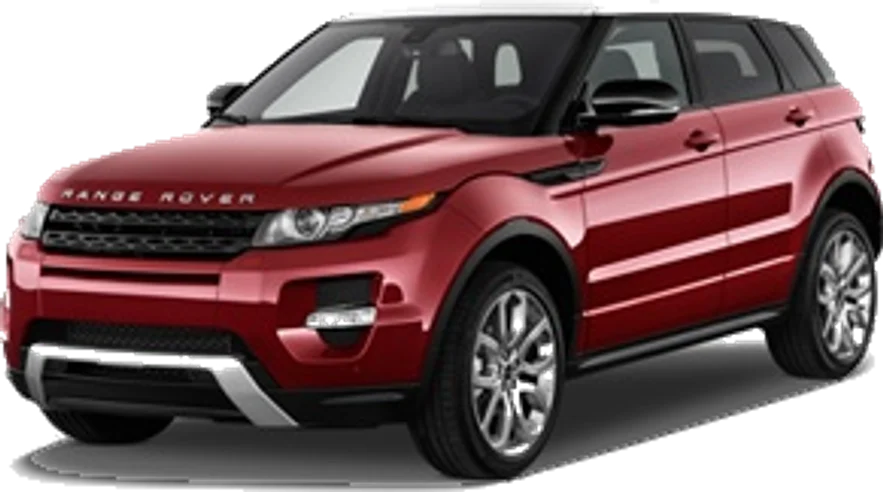
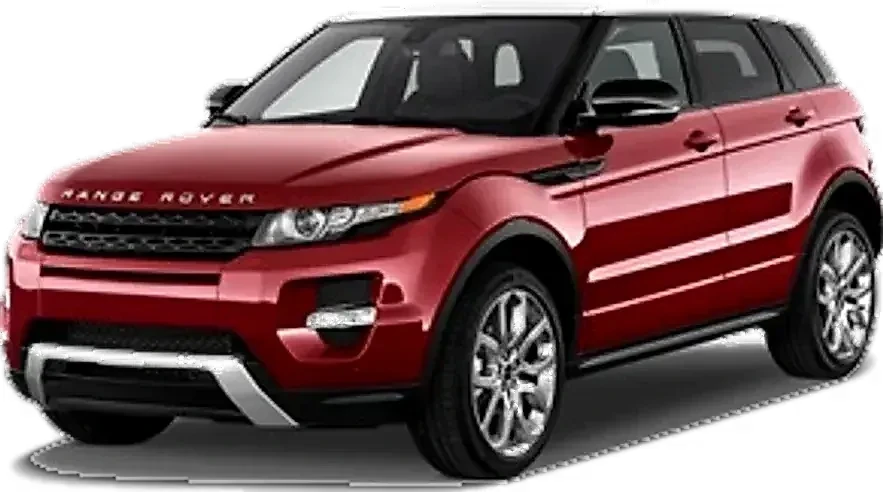
Range Rover Evoque plus net : image accentuée, contour lissé, affichée à 85 %
La photo d'origine ne fait que 314 px de large ; elle est moins agrandie
et ses bords n'ont plus d'effet d'escalier.

diff --git a/components/motion/MotionDrive.tsx b/components/motion/MotionDrive.tsx
@@ -5,12 +5,14 @@ import { SUV_IMAGE } from './KitIcons';
 /**
  * Voitures qui défilent, dans cet ordre. Photos détourées (fond transparent, 883 px de large)
  * dans /public/animations : ajoutez ou retirez une ligne pour changer la sélection.
+ * scale (facultatif) : affiche la voiture plus petite, utile si la photo d'origine est peu détaillée.
  */
-const cars = [
+const cars: { name: string; src: string; scale?: number }[] = [
   { name: 'Mitsubishi Outlander', src: SUV_IMAGE },
   { name: 'Hyundai Tucson', src: '/animations/cars/tucson.webp' },
   { name: 'Hyundai Elantra', src: '/animations/cars/elantra.webp' },
-  { name: 'Range Rover Evoque', src: '/animations/cars/evoque.webp' },
+  // Photo d'origine petite (314 px) : affichée un peu plus petite pour rester nette
+  { name: 'Range Rover Evoque', src: '/animations/cars/evoque.webp', scale: 0.85 },
 ];
 
 const pad = (n: number) => String(n).padStart(2, '0');
@@ -53,7 +55,12 @@ export function MotionDrive({ t }: { t: Dictionary['motion']['drive'] }) {
             <b data-car-num="">01</b>/ {pad(cars.length)} · <span data-car-name="">{cars[0].name}</span>
           </p>
           {cars.map((car) => (
-            <div key={car.src} className="am-drive__car" data-name={car.name}>
+            <div
+              key={car.src}
+              className="am-drive__car"
+              data-name={car.name}
+              style={car.scale ? ({ '--s': car.scale } as React.CSSProperties) : undefined}
+            >
               {/* eslint-disable-next-line @next/next/no-img-element -- photos détourées déjà optimisées (≈ 55 Ko) */}
               <img
                 className="am-drive__img"

diff --git a/app/am-motion.css b/app/am-motion.css
@@ -549,3 +549,5 @@
 html:not(.am-ready) .am-drive--multi div.am-drive__car:first-of-type { --x: 0; --b: 0; }
 @media (prefers-reduced-motion: reduce) { .am-drive--multi { height: auto; } .am-drive--multi .am-drive__car { --x: 0 !important; --b: 0 !important; } }
 @media (max-width: 600px) { .am-drive__counter { top: 28px; } }
+/* Taille propre à chaque voiture (--s, 1 par défaut) : sert aux photos de petite taille */
+.am-drive--multi .am-drive__car { width: calc(min(92vw, 980px, calc((100vh - 360px) * 1.7)) * var(--s, 1)); }
